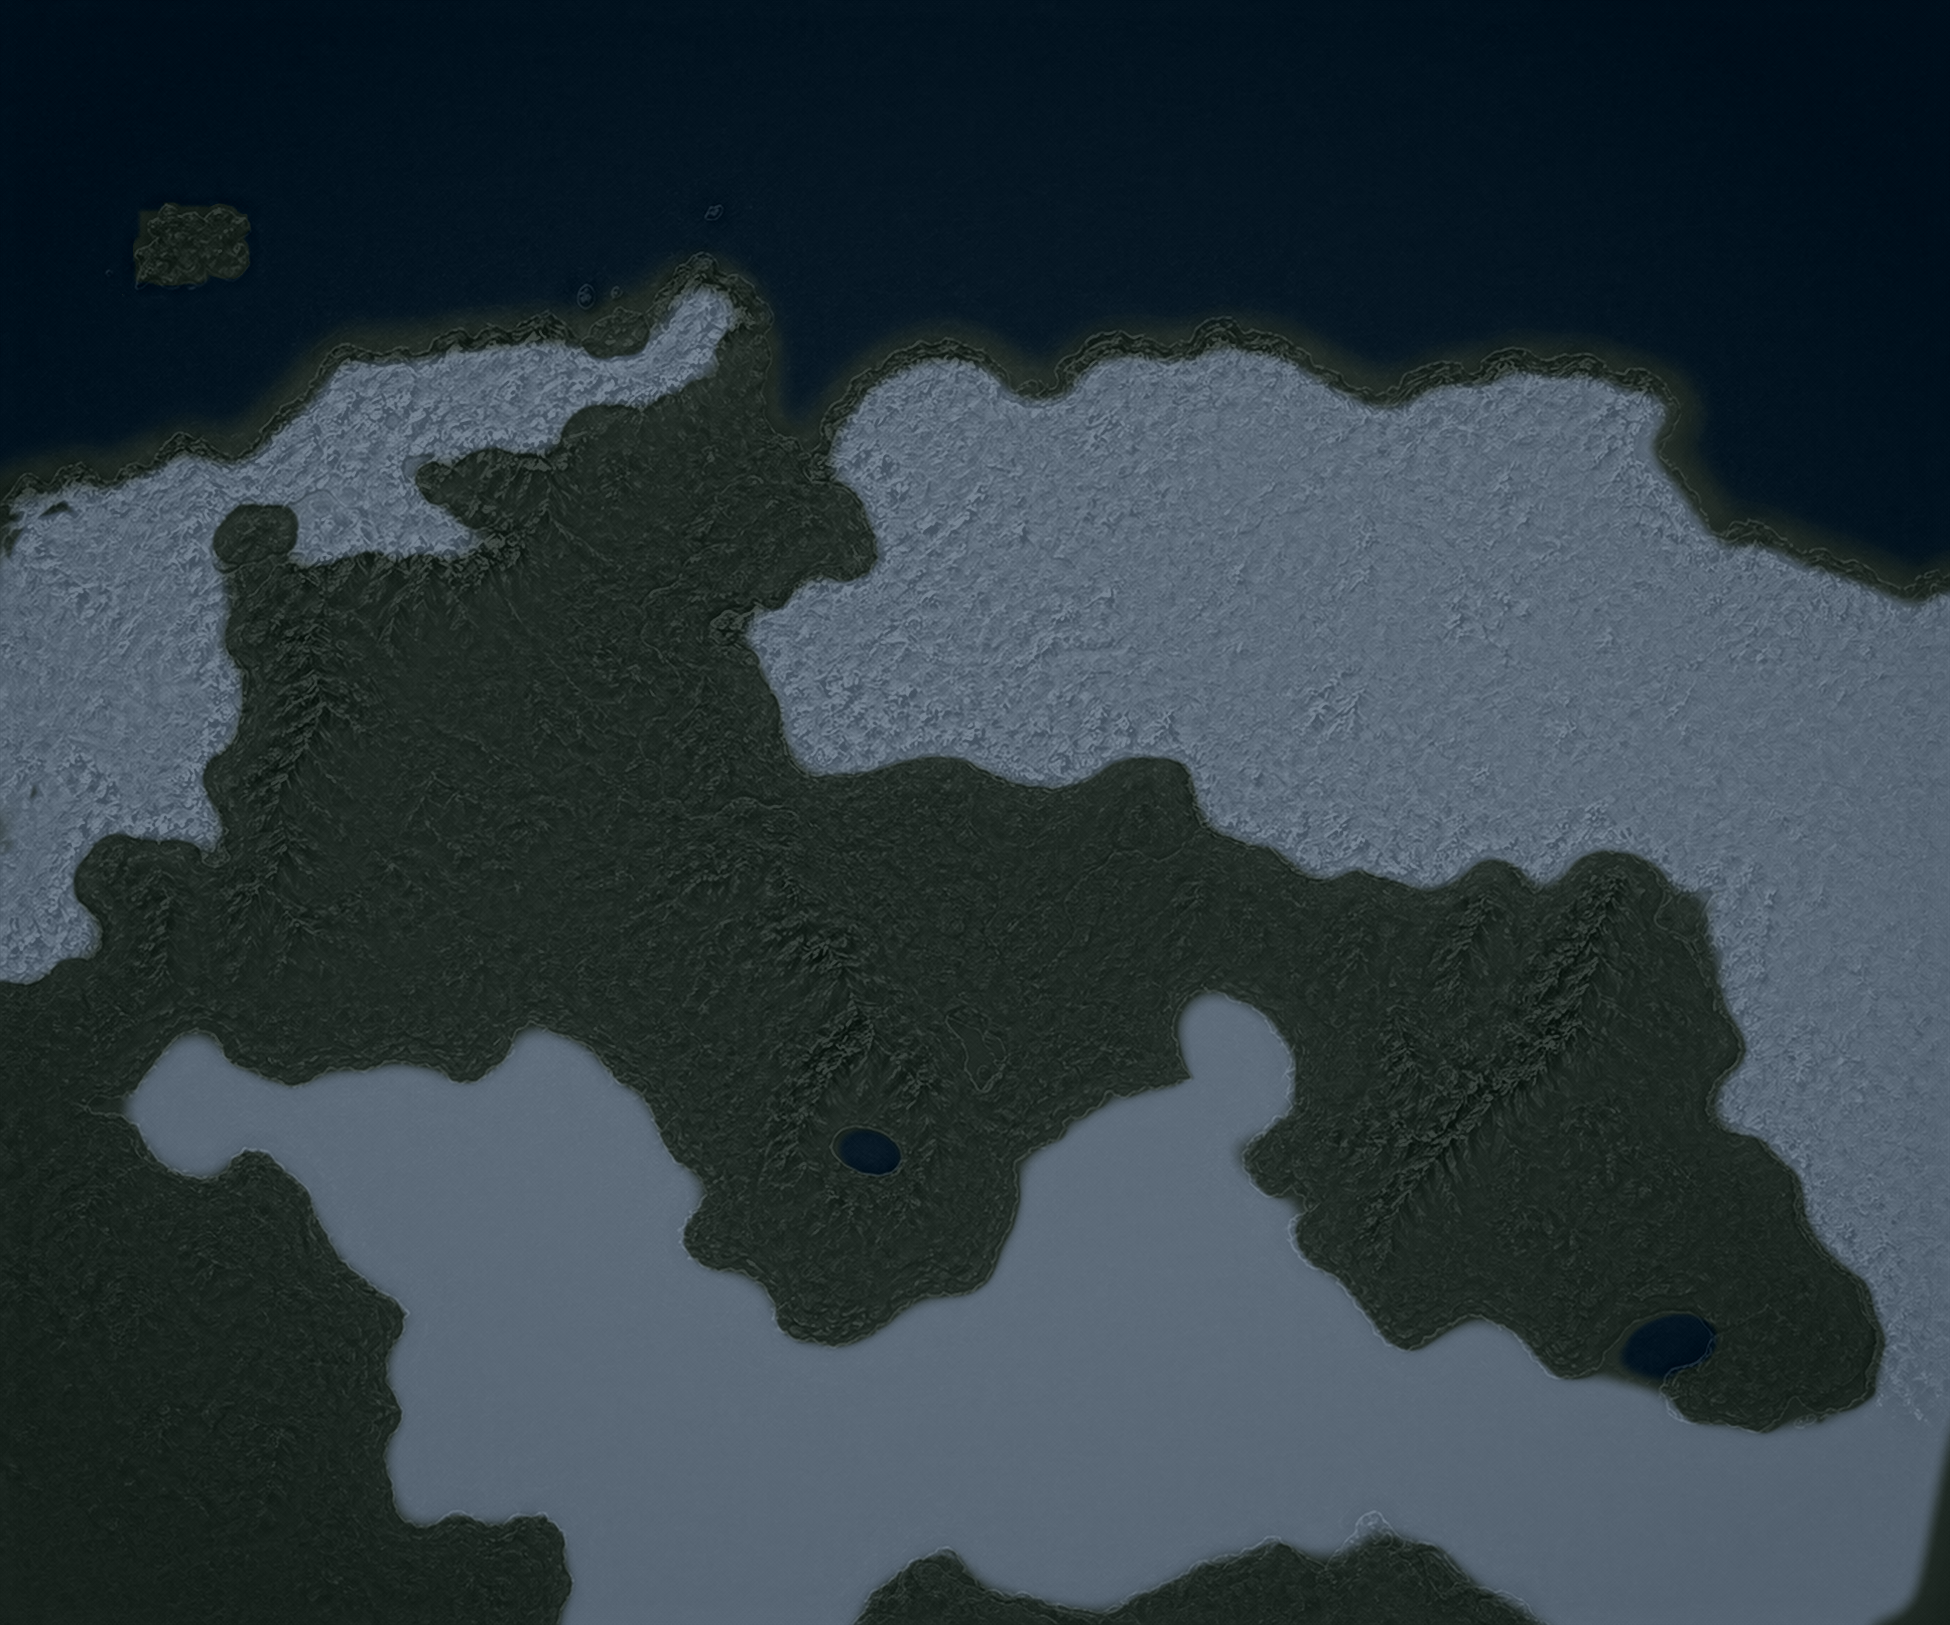
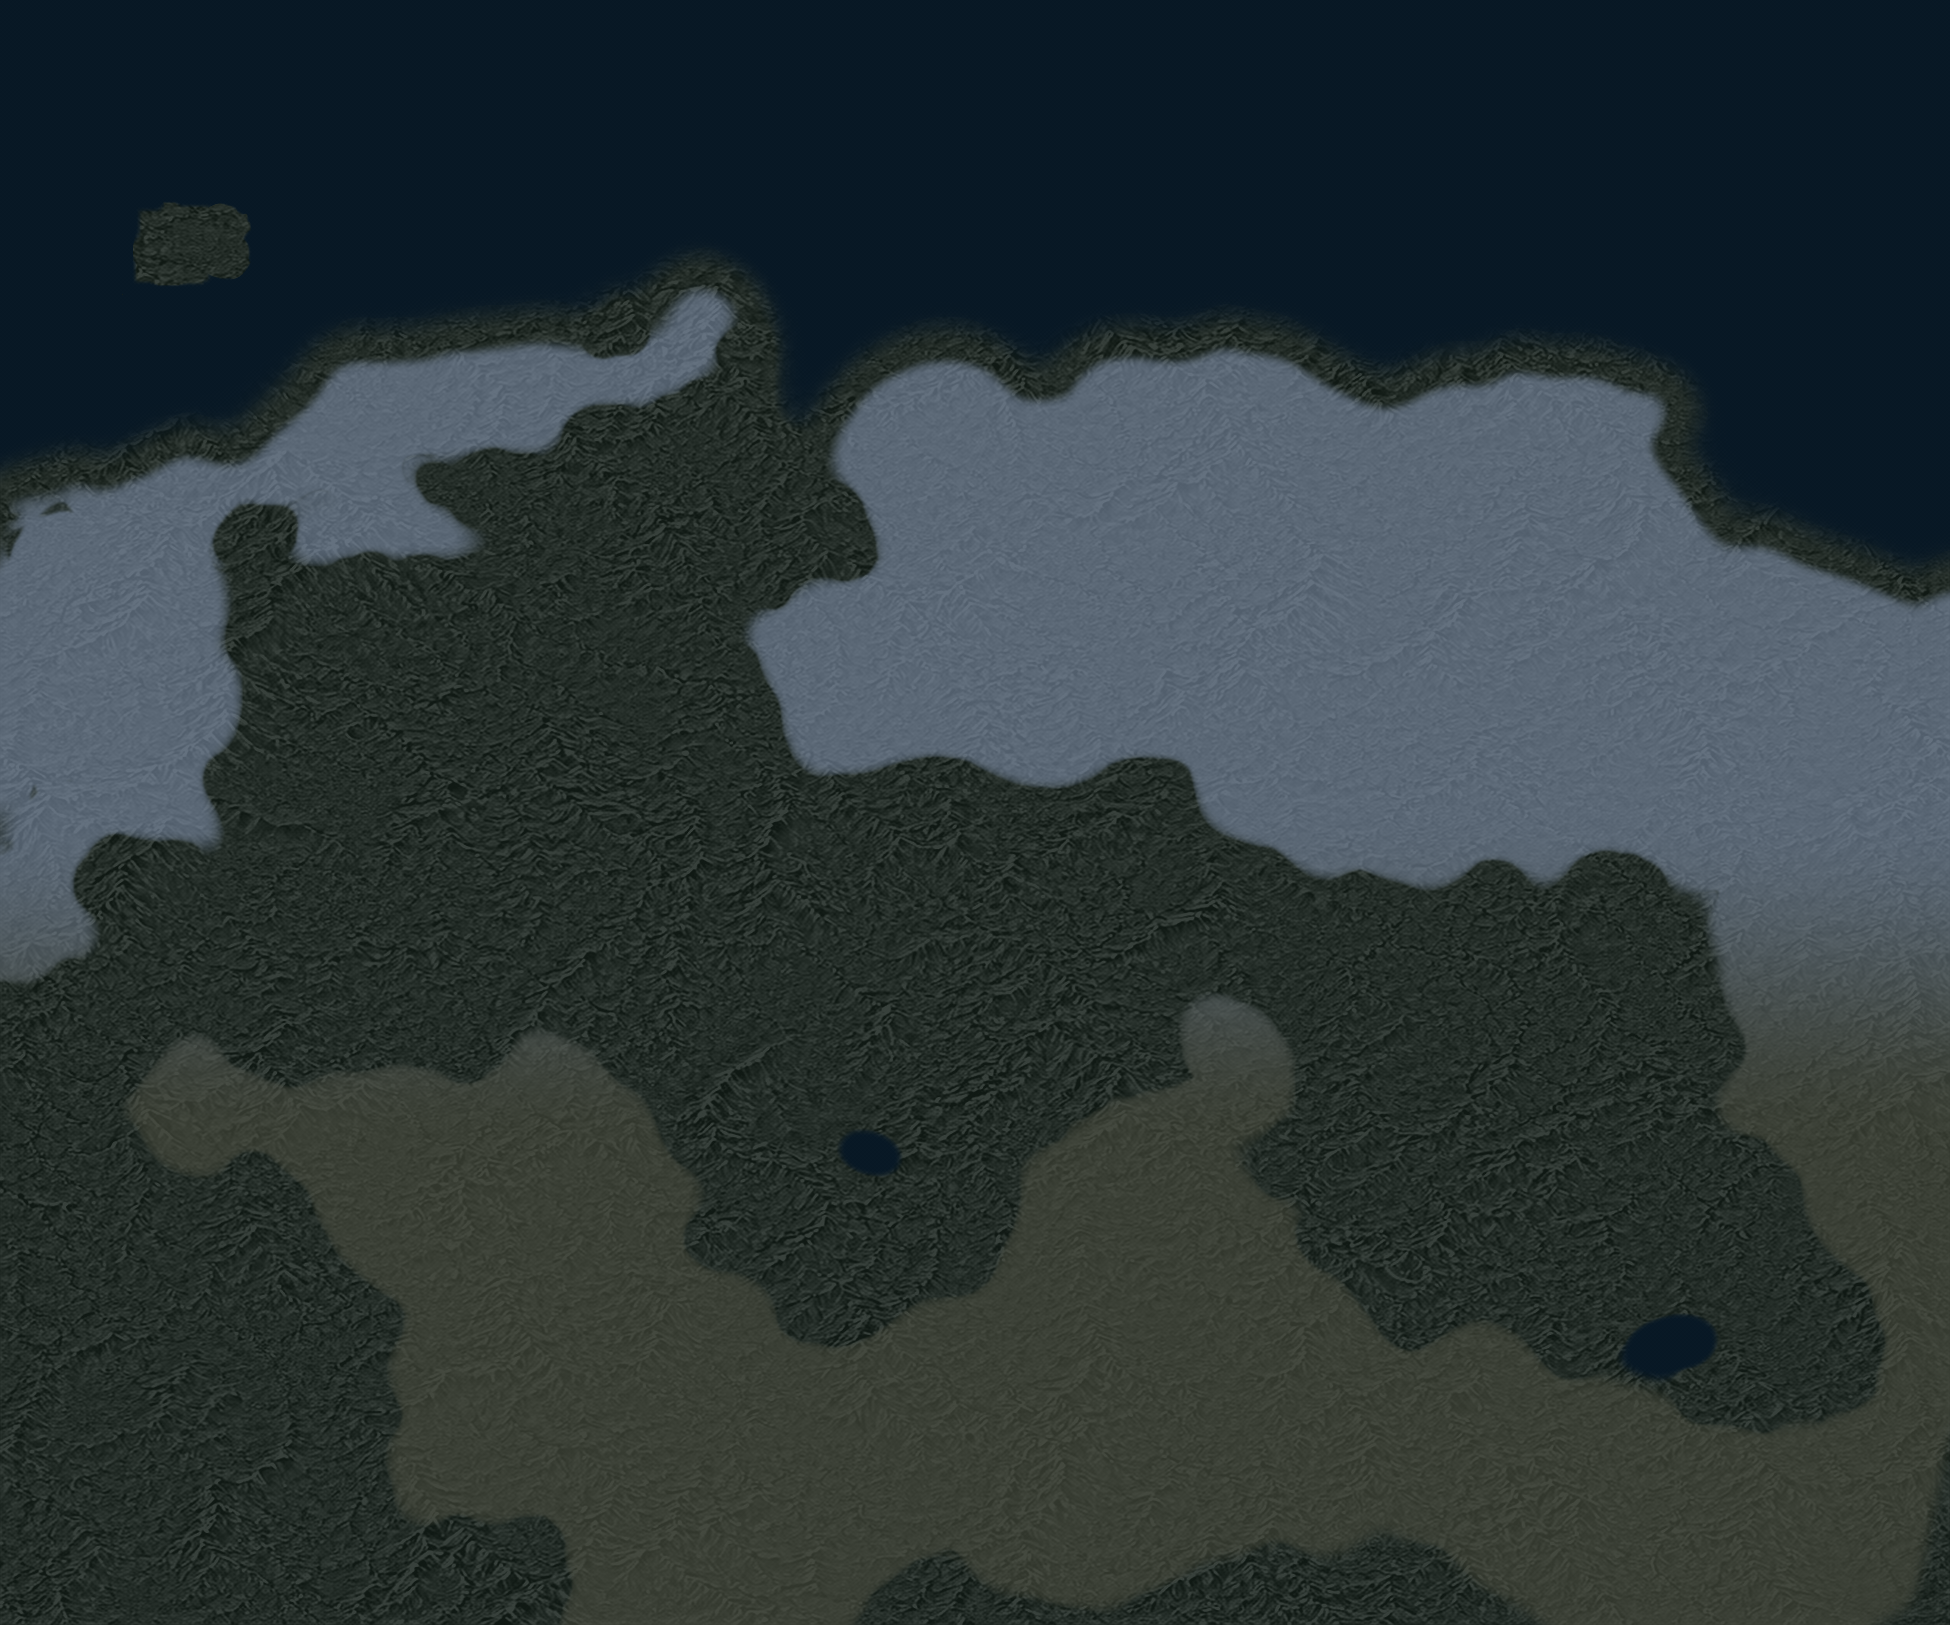
Correct southern Background Life terrain

diff --git a/ui/mapview.php b/ui/mapview.php
@@ -574,7 +574,7 @@ if (!function_exists('race_icon_web_path')) {
     $mapHeight = 1625;
 
     // Map file path (relative to web root)
-$mapImageUrl = '../data/maps/Map_of_Skyrim_dark.png';
+$mapImageUrl = '../data/maps/Map_of_Skyrim_dark.png?v=2';
 
     // Function to translate in-game coordinates to map coordinates
     function translateCoords($ingameX, $ingameY, $mapWidth, $mapHeight, $worldXMin, $worldXMax, $worldYMin, $worldYMax)
